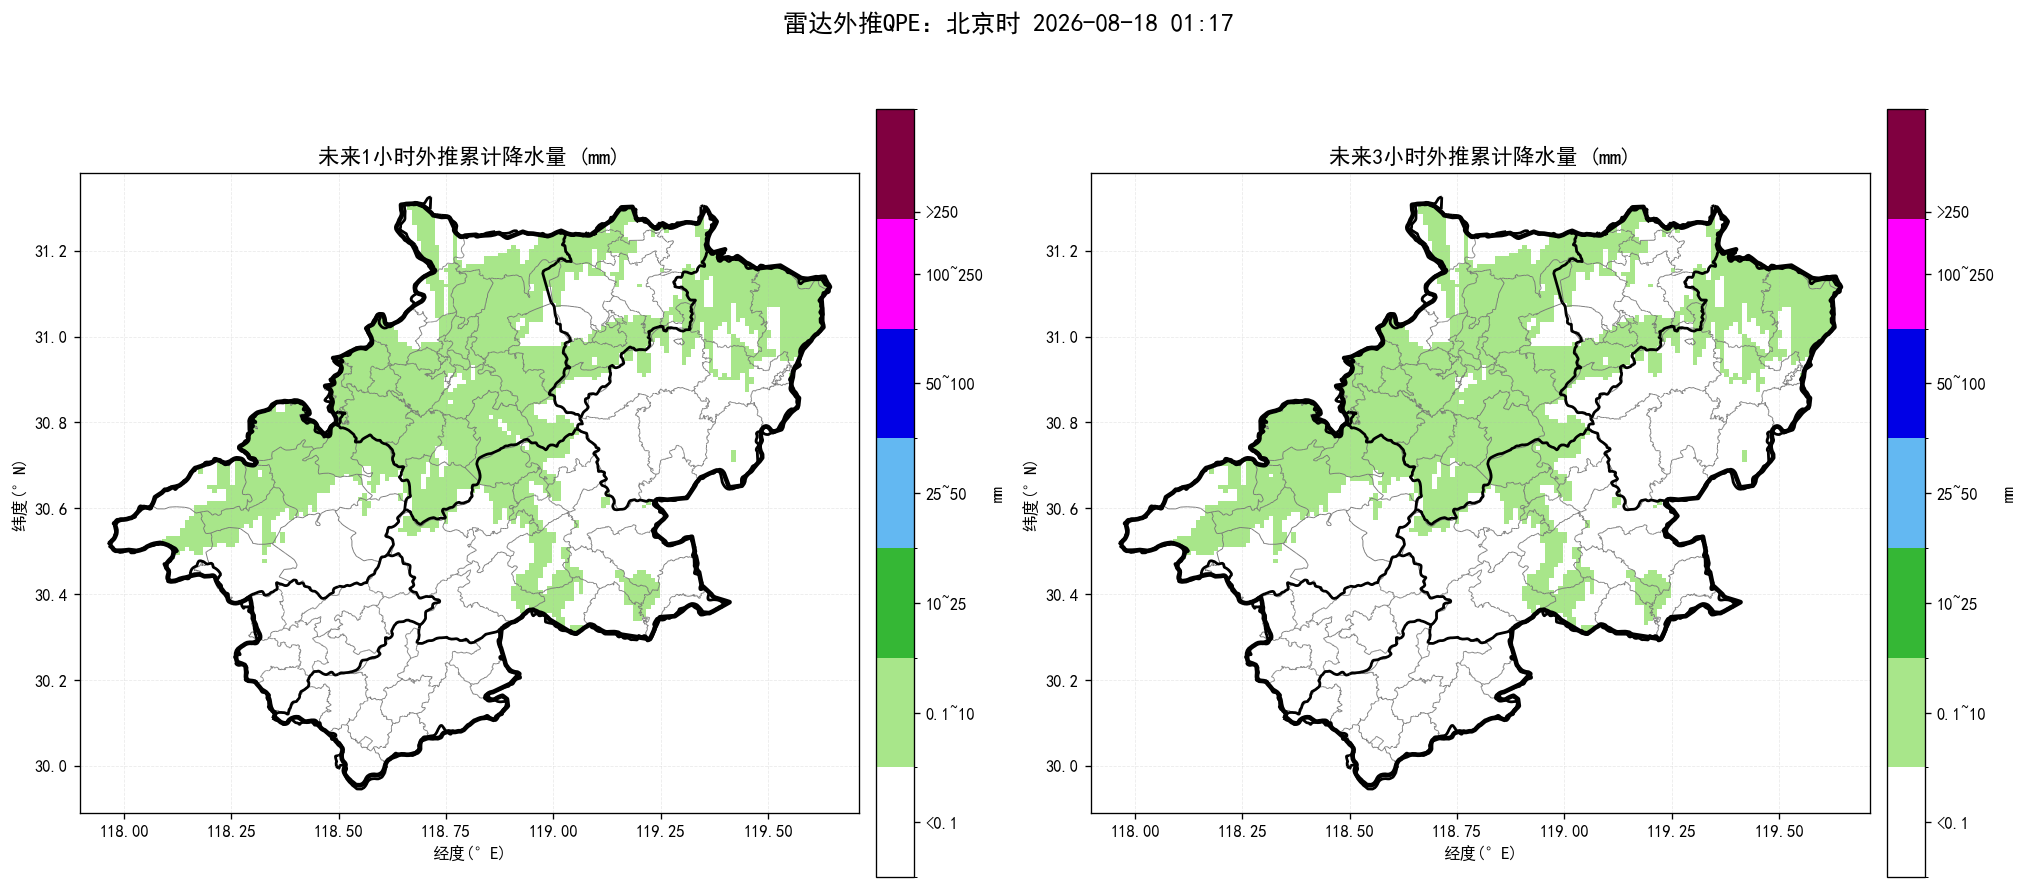
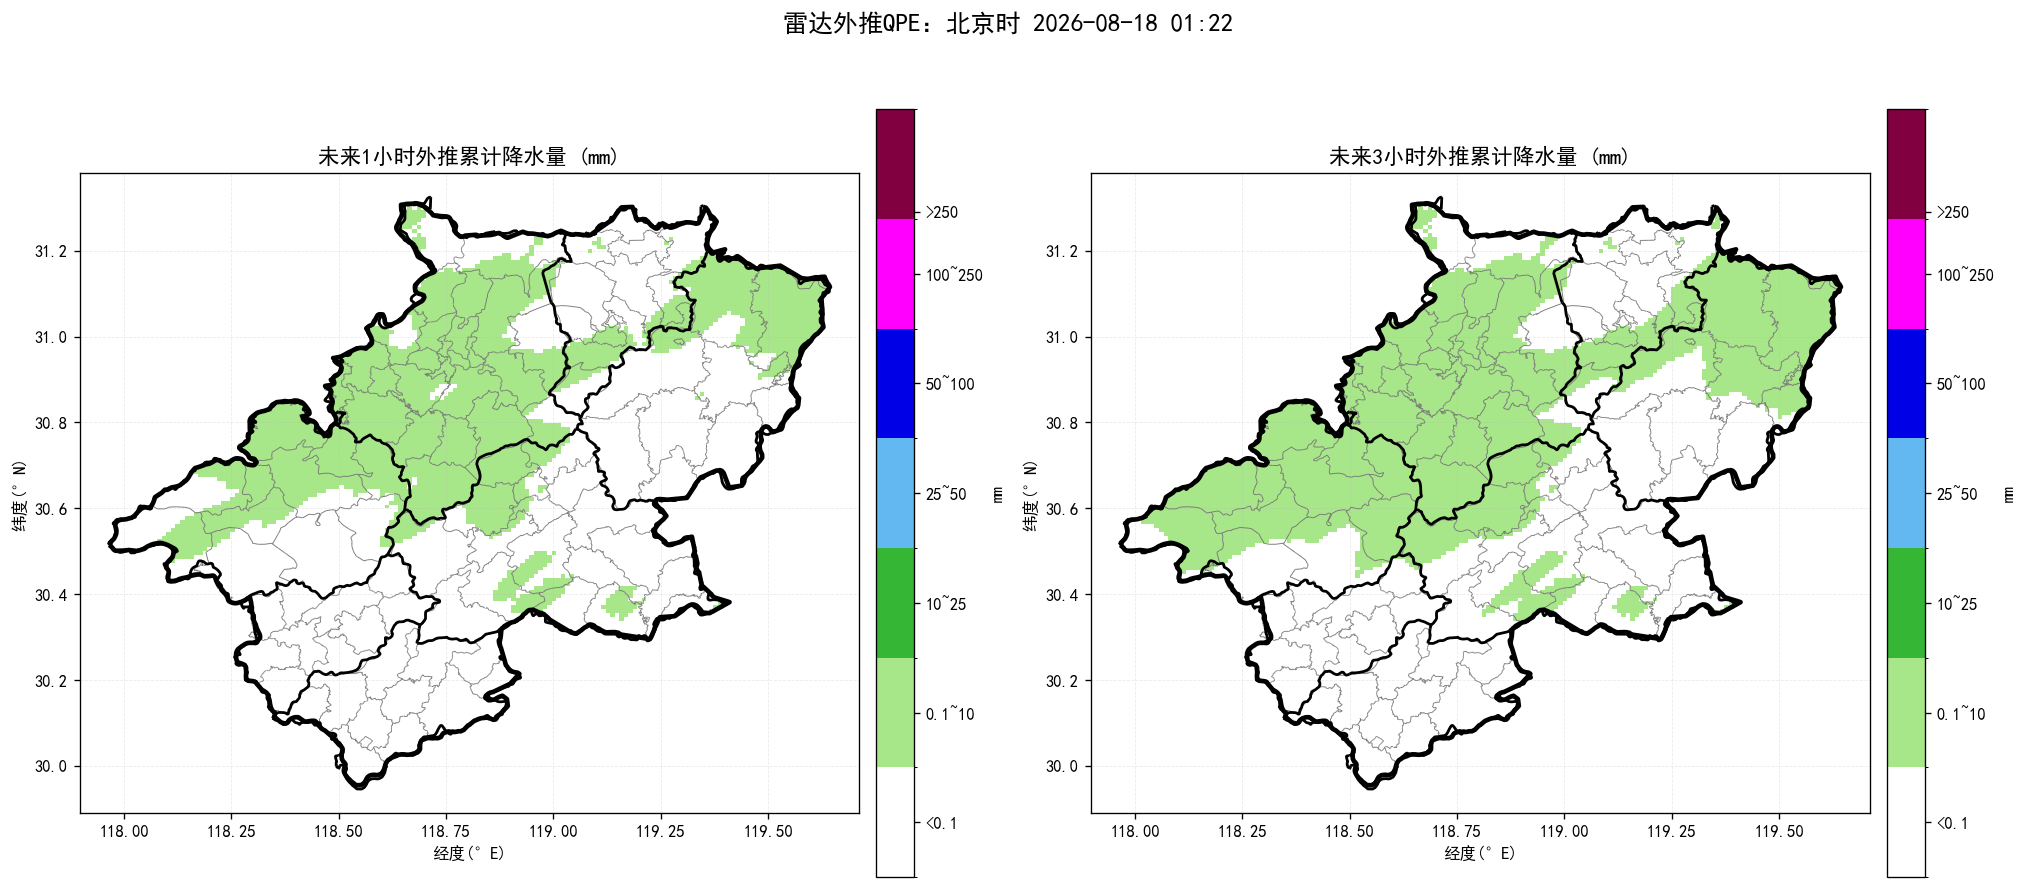
update nowcast products

diff --git a/index.html b/index.html
@@ -15,11 +15,11 @@ img.product{display:block;width:100%;height:auto;margin:10px auto 26px;border:1p
 .footer{font-size:13px;color:#777;text-align:center;margin-top:30px}
 @media(max-width:700px){.sheet{margin:0;padding:18px 15px}.alert-title{font-size:22px}.county-line{font-size:17px}.prob{font-size:18px}}
 </style></head><body><main class="sheet">
-<div class="time">起报时间：北京时 2026-08-18 01:11</div>
+<div class="time">起报时间：北京时 2026-08-18 01:17</div>
 <div class="alert-title">未来一小时降水量超过 20 毫米的乡镇：</div><div class="county-line">无</div>
 <div class="alert-title">未来三小时降水量超过 50 毫米的乡镇：</div><div class="county-line">无</div>
 <div class="alert-title">未来三小时雷暴大风（组合反射率 > 55 dBZ）的乡镇：</div><div class="county-line">无</div>
-<div class="prob">最大降水量概率预估：宣城市范围内未来三小时降水偏小，最大预报约4.7毫米，暂不进行50/80/100毫米概率预估。</div>
+<div class="prob">最大降水量概率预估：宣城市范围内未来三小时降水偏小，最大预报约8.4毫米，暂不进行50/80/100毫米概率预估。</div>
 <div class="section-title">未来降水预报图：</div><img class="product" src="短临降水预报.png" alt="未来降水预报图">
 <div class="section-title">未来三小时组合反射率图：</div><img class="product" src="未来3小时组合反射率.png" alt="未来三小时组合反射率图">
 <div class="section-title">未来三小时雷暴大风图：</div><img class="product" src="未来3小时雷暴大风.png" alt="未来三小时雷暴大风图">
